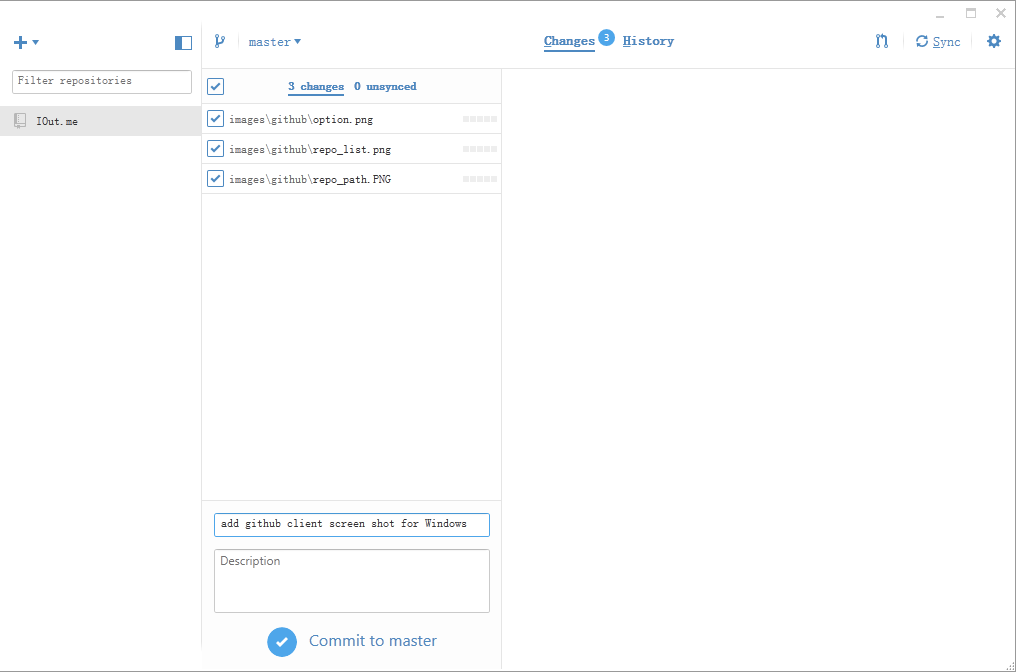
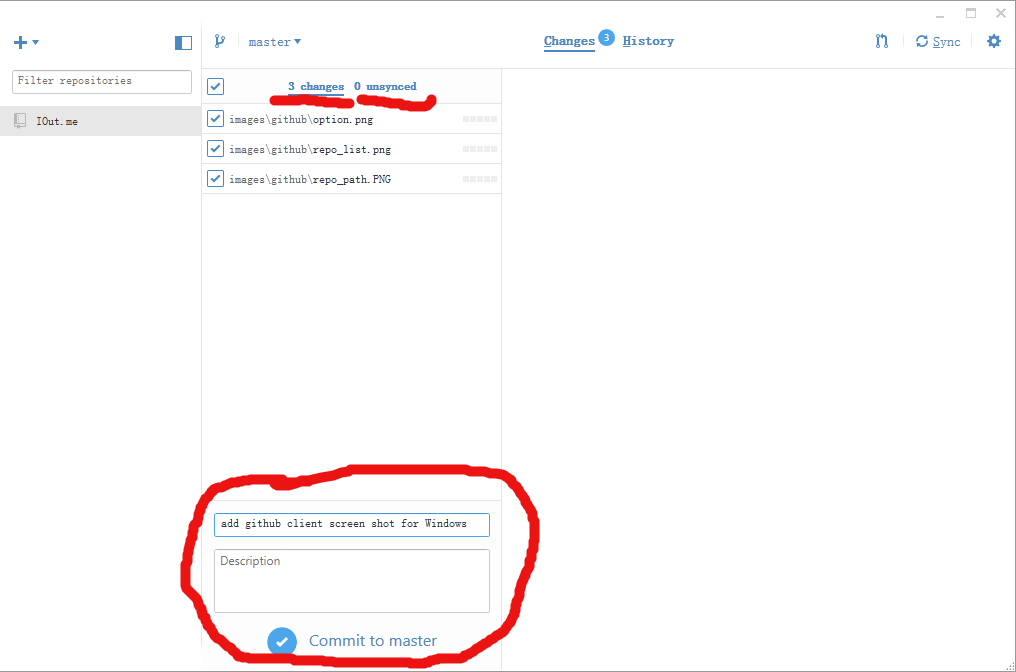
github_for_new_coder.md upgrade

Changed region(s): [[0.1526, 0.6875, 0.5492, 1.0], [0.2441, 0.125, 0.4272, 0.1875]]

diff --git a/content/github_for_new_coder.md b/content/github_for_new_coder.md
@@ -2,43 +2,45 @@
 ======================
 
 Git 是 linux 之父 linus 开发的一个软件, 用于代码的版本管理.
+
 后来, 几个人基于这个软件, 做了一个网站, 名字叫 Github.
+
 现在, Github 已经成了码农社区的代名词.
 
 学习的核心思路:
 
-    先以最拙劣的方式用起来, 然后再考虑如何用的更优雅.
+    先用起来, 不管有多拙劣. 熟悉了以后再考虑如何优雅.
 
-#### 学习目标 -- __耗时 1h__
+#### 学习目标
 
-1. 注册 github 帐号
-2. 安装 github 客户端
-3. 能够把自己的最新代码上传至 github
-4. 使用 Github Issue 提高沟通效率
+1. 注册 github 帐号, 安装 github 客户端
+2. git 上传 / 下载代码
+3. Github Issues
+
+__耗时 1h__
 
 
-#### 为什么要使用 Github?
+#### 为什么使用 Github?
 
-只求能够说服使用, 不做全面介绍.
+试图用几个案例来帮助我表达观点.
 
 1. 新人都希望大神帮忙看下自己的代码. 如何把代码发给大神呢?
 
     邮箱? QQ? 别逗了, 点击这个链接体验下: [人人网爬虫代码](https://github.com/JackonYang/renren)
 
-2. 怒写 2 天代码, 发现思路错了, 怎么办?
+2. 怒写 2 天代码, 发现思路错了, 怎么退回去?
 
-    当然是退出去. 问题是, 如何退回去?
+    学生写论文时的做法: 保存很多文件 -- 最新版, 最最新版, 最最新不再修改版!
 
-    学生写论文时的做法: 保存很多文件 -- 最新版, 最新新版, 最新不再修改版!
-
-    感受下用了 Github 以后的效果: [代码历史记录](https://github.com/JackonYang/renren/commits/master)
+    Github 上的效果: [代码历史记录](https://github.com/JackonYang/renren/commits/master)
 
 3. 写代码不是一个人的事情
 
-    有了小伙伴以后, 协作是必须的, 代码的协作必要要用版本管理工具.
+    有了小伙伴以后, 协作是必须的, 代码的协作通常使用版本管理工具.
+
     早些年 SVN 一统天下. 现在越来越多的人拥抱 Git.
 
-#### 新手的 Github 教程
+#### 编程新人的 Github 教程
 
 1. [github.com](github.com) 注册一个帐号.
 
@@ -53,35 +55,46 @@ Git 是 linux 之父 linus 开发的一个软件, 用于代码的版本管理.
     - MAC: https://mac.github.com/
     - Windows: https://windows.github.com/
 
-    注: 如果 windows 如果不能正常登录, 手动重新安装 .net 4.0 或者 .net 4.5
+    注: windows 下安装后如果不能正常登录, 手动重新安装 .net 4.0 或者 .net 4.5 再尝试登录.
 
 3. 配置客户端:
 
-    ![config github client](/images/github/option.png)
+    <p><img width="360px" src="/images/github/option.png" alt="config github client"></p>
+
     ![config github client](/images/github/config.png)
 
-    黄色标注的地方, 建议关注并配置下.
+    黄色标注的地方, 请特别关注或配置下.
 
-    特别注意: clone path 就是本地存放代码源文件的位置. 直接在这个目录下编辑 / 调试代码即可.
+    特别注意: `clone path` 就是本地存放代码源文件的位置.
 
 4. 代码的提交与同步
 
-    - 修改了 clone path 下的代码以后, 在 github 客户端里可以看到文件有变更.
+    - 修改了 clone path 下的代码以后, github 客户端会自动识别出文件的变更内容.
 
-    - 本地代码有了变更以后, 提交到 git 软件里, 此时其他人看不到.
+        如下图的 `3 changes`
 
         ![commit local changes](/images/github/commit.png)
 
-    - 本地的提交同步到 github 网站上, 其他人可以看到并使用最新的代码.
+    - 代码提交
 
-        同样, 也可以把其他人的提交同步到本地.
+        勾选变更的文件, 下方填写关于变更的说明, 点击 `commit to master` 即可.
+
+        此时, 代码在本地的 git 仓库里, 没有上传, 其他人看不到最新的代码.
+
+    - 与 github 网站上的代码进行同步.
+
+        所谓的同步, 就是上传自己的变更, 下载别人提交的内容.
+
+        一般, github 可以把多个人修改后的内容自动合并成一个最新的版本. 非常方便. 遇到不能自动合并的情况, 会提示需要手动合并.
 
         ![sync commits](/images/github/sync.png)
 
-5. 使用 Github Iusse 提问
+5. 使用 Github Iusses 提问
 
-    每个项目, 都有一个 issue 页面. 方便大家沟通.
+    每个项目, 都有一个 issues 页面. 方便大家沟通.
 
     如何学习中有任何疑问, 或者建议, 也可以到本项目的 Iusse 页面提问.
 
-    [github issue](https://github.com/JackonYang/IOut.me/issues) `New issue` 即可
+    [github issue](https://github.com/JackonYang/IOut.me/issues) 点击 `New issue` 创建新问题即可
+
+    跟论坛差不多.
